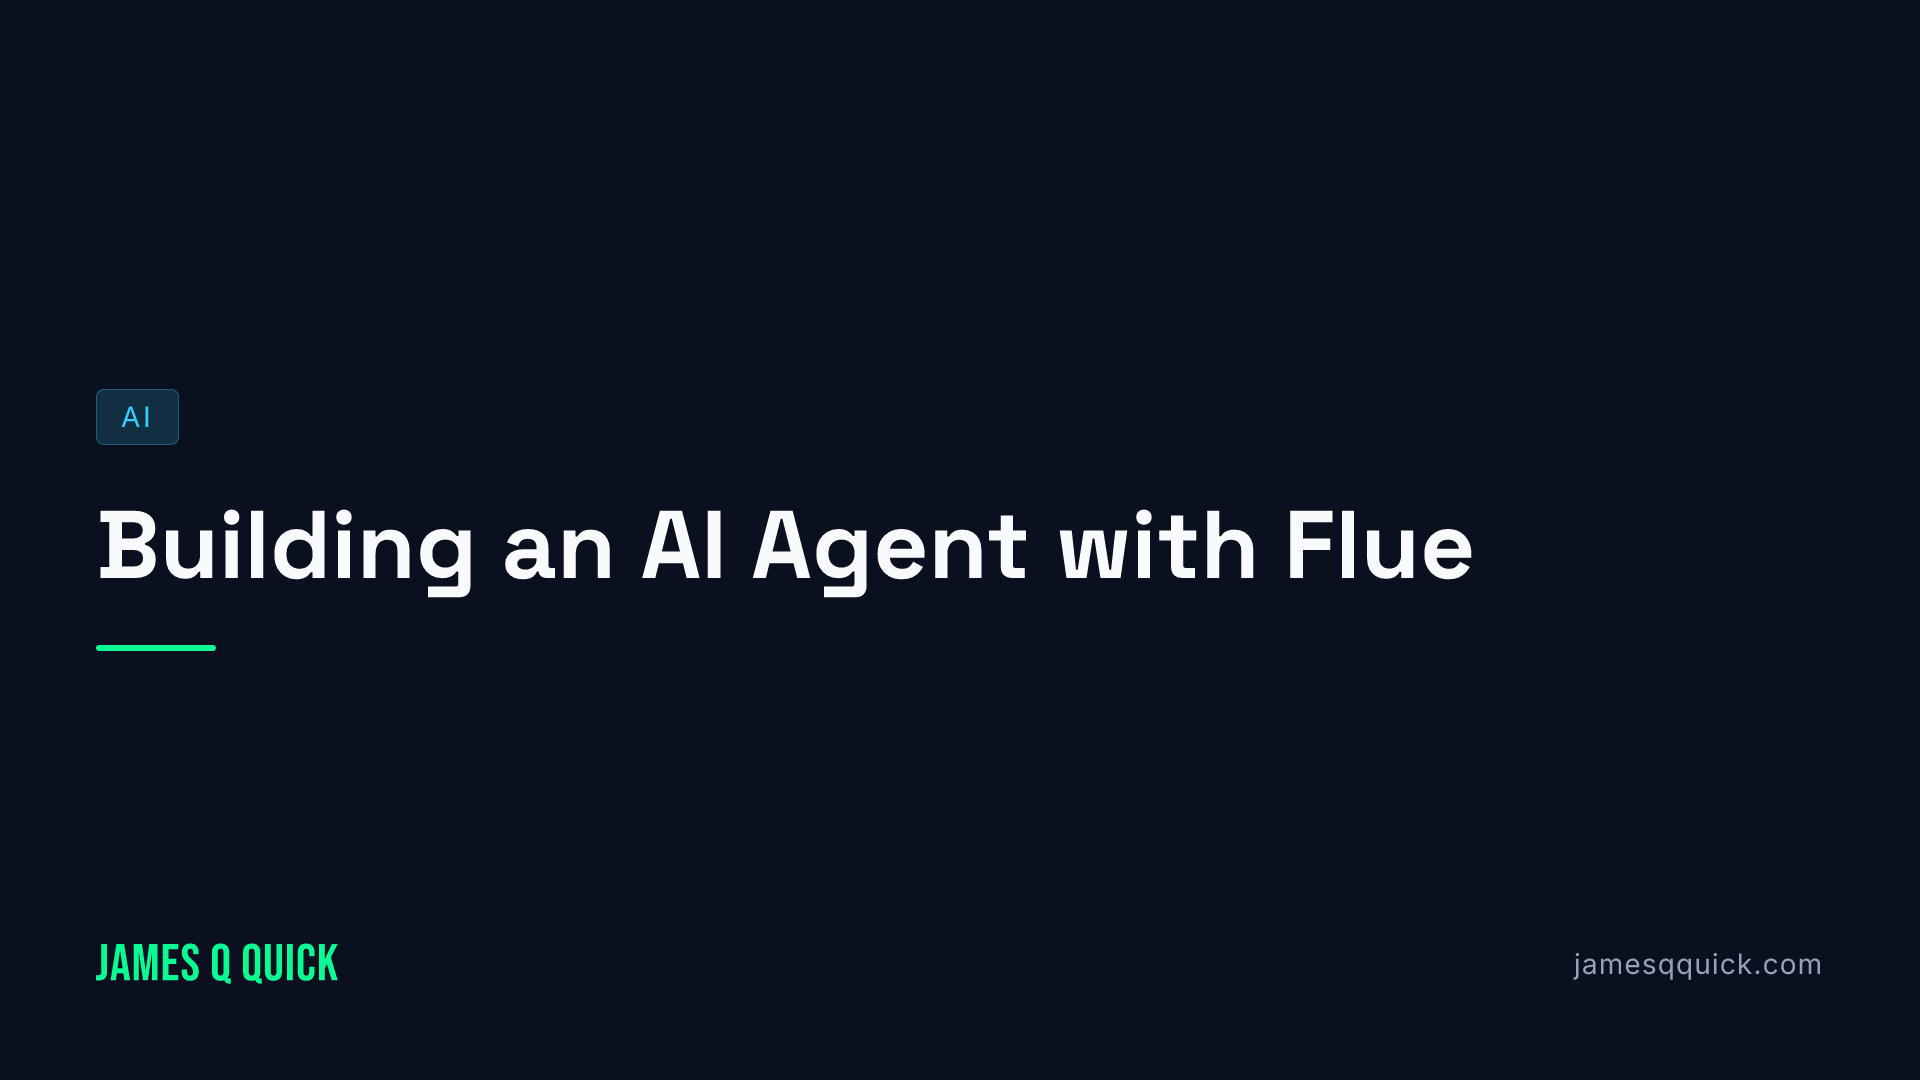
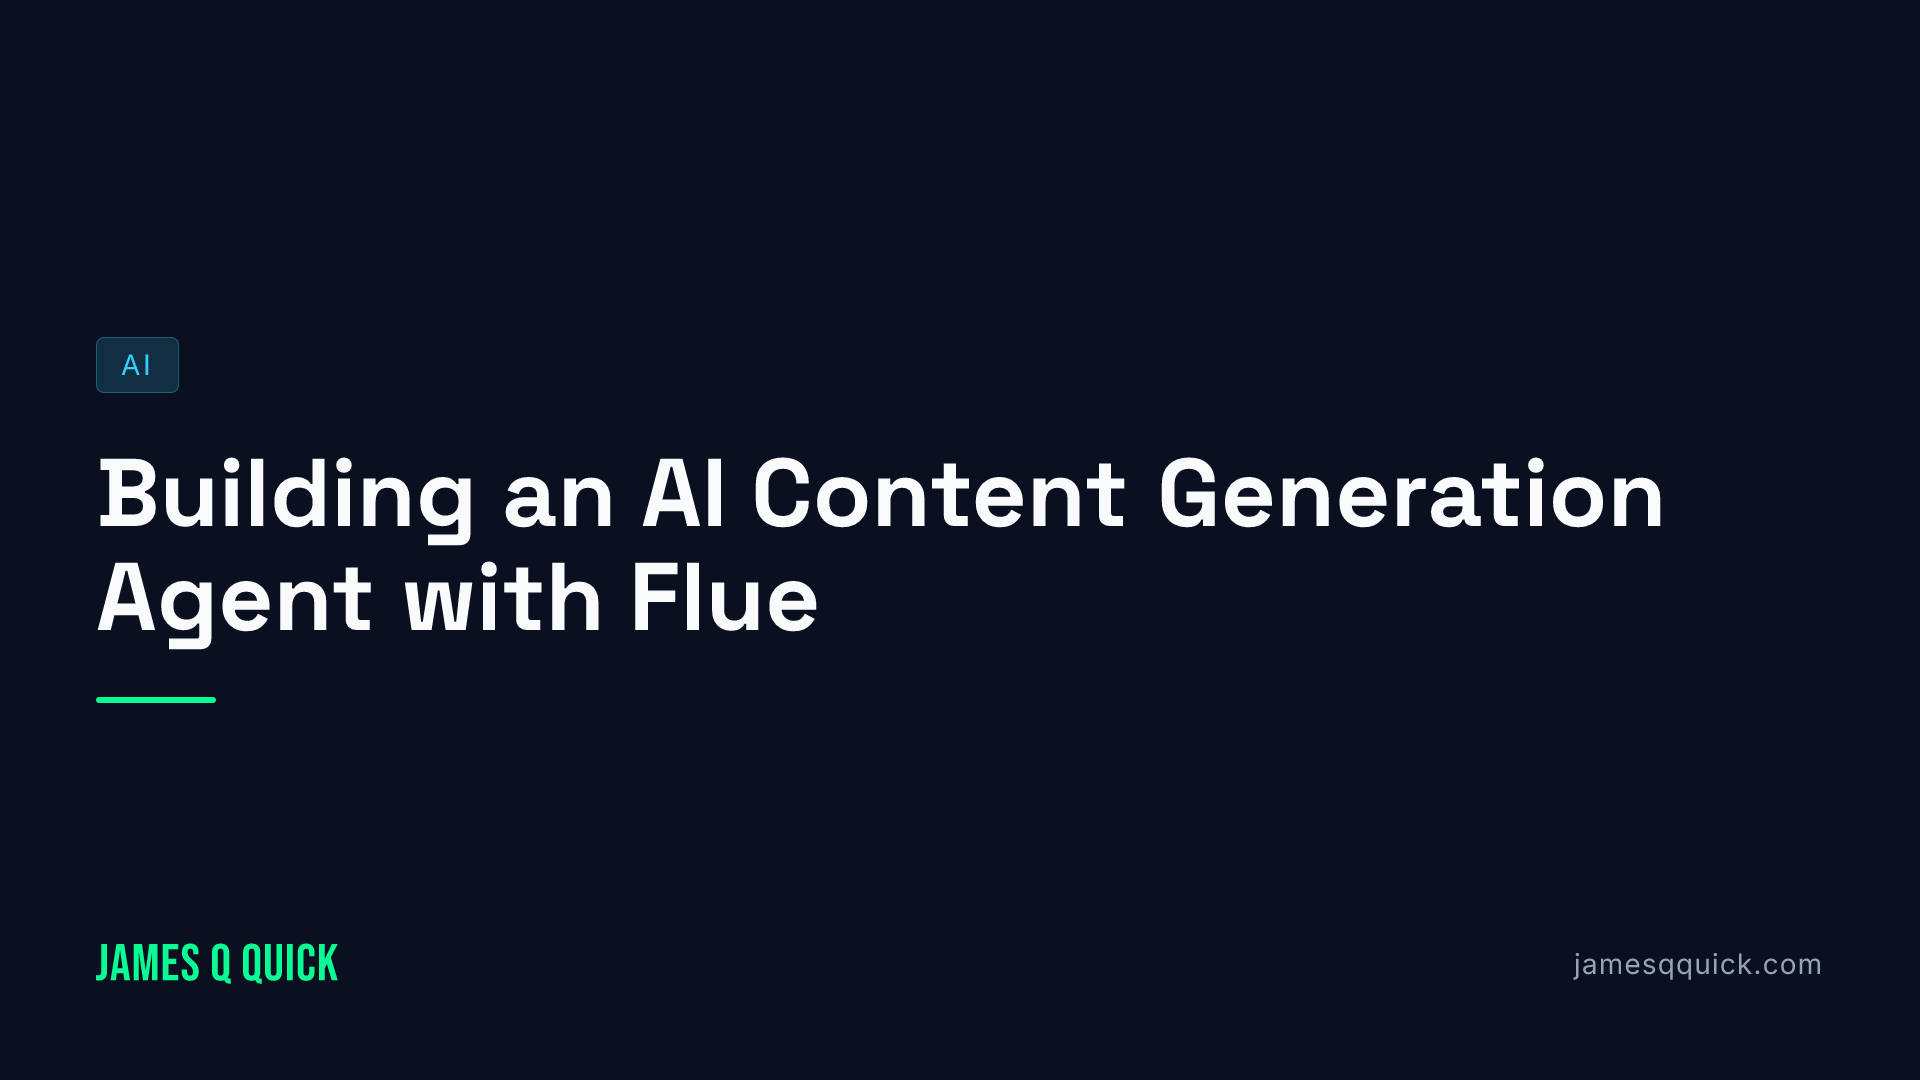
blog: update title and regenerate cover

Changed region(s): [[0.0312, 0.3056, 0.875, 0.6111], [0.0625, 0.6417, 0.125, 0.6722]]

diff --git a/src/data/blog/building-an-ai-agent-with-flue/building-an-ai-agent-with-flue.md b/src/data/blog/building-an-ai-agent-with-flue/building-an-ai-agent-with-flue.md
@@ -1,5 +1,5 @@
 ---
-title: "Building an AI Agent with Flue"
+title: "Building an AI Content Generation Agent with Flue"
 coverImage: ./cover.png
 pubDate: 2026-07-15T00:00:00.000Z
 description: >-
